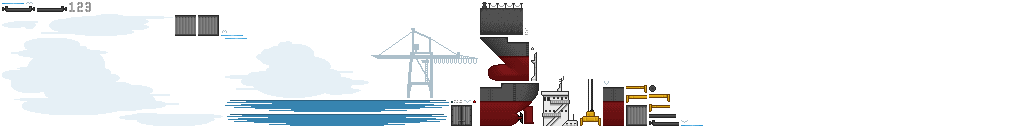
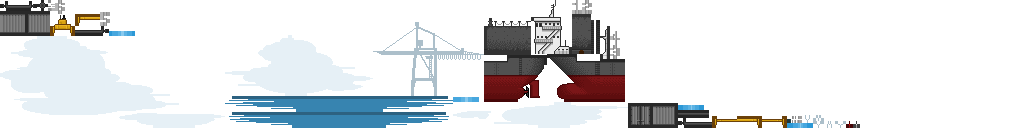
Neue Grafiken für Kran und Zughintergrund eingearbeitet.

diff --git a/Source/Docker/core/src/com/docker/domain/gameobject/Crane.java b/Source/Docker/core/src/com/docker/domain/gameobject/Crane.java
@@ -1,8 +1,5 @@
 package com.docker.domain.gameobject;
 
-import java.util.ArrayList;
-import java.util.List;
-
 import com.badlogic.gdx.Gdx;
 import com.badlogic.gdx.graphics.g2d.Batch;
 import com.badlogic.gdx.graphics.g2d.TextureAtlas;
@@ -23,7 +20,8 @@ public class Crane extends Actor {
 	private TextureRegion extensionLeftOuter;
 	private TextureRegion extensionRight;
 	private TextureRegion extensionRightOuter;
-
+	private TextureRegion cable;
+	
 	/**
 	 * @param speed the speed at which the crane can move.
 	 * @param xOrigin the crane's initial position on the x-plane. The Crane will always return to this position.
@@ -44,6 +42,7 @@ public class Crane extends Actor {
 		this.extensionLeftOuter = atlas.findRegion("crane_extension_left_outer");
 		this.extensionRight = atlas.findRegion("crane_extension_right");
 		this.extensionRightOuter = atlas.findRegion("crane_extension_right_outer");
+		this.cable = atlas.findRegion("crane_cable");
 	}
 	
 	/**
@@ -72,7 +71,10 @@ public class Crane extends Actor {
 		Action completeAction = new Action(){
 		    public boolean act( float delta ) {
 		        // give the container to the ship here, preferrably to a grid coordinate
-		    	ship.addContainer(x, removeContainer());
+		    	Container container = removeContainer();
+		    	ship.addContainer(x, container);
+		    	setX(getX()+container.getWidth()/2);
+		    	setY(getY()+container.getElementHeight());
 		    	return true;
 		    }
 		};
@@ -102,6 +104,8 @@ public class Crane extends Actor {
 
 	@Override
 	public void draw (Batch batch, float parentAlpha) {
+		float xBody;
+		float yBody;
 		if(this.container != null){
 			int length = this.container.getLength();
 			float elementWidth = this.container.getElementWidth();
@@ -157,12 +161,17 @@ public class Crane extends Actor {
 
 
 
-			batch.draw(this.body, 
-					this.getX()+((float)this.container.getWidth())/2-((float)this.body.getRegionWidth())/2, 
-					this.getY()+this.container.getHeight()-4);
+			xBody = this.getX()+((float)this.container.getWidth())/2-((float)this.body.getRegionWidth())/2;
+			yBody = this.getY()+this.container.getHeight()-4;
 		}
 		else{
-			batch.draw(this.body, this.getX(), this.getY());
+			xBody = this.getX();
+			yBody = this.getY();
+		}
+		batch.draw(this.body, xBody, yBody);
+		
+		for(float i=yBody + this.body.getRegionHeight();i<this.getStage().getHeight()+this.cable.getRegionHeight();i+=this.cable.getRegionHeight()){
+			batch.draw(this.cable, xBody+8, i);
 		}
 	}
 

diff --git a/Source/Docker/core/src/com/docker/domain/game/QuickGame.java b/Source/Docker/core/src/com/docker/domain/game/QuickGame.java
@@ -32,7 +32,7 @@ public class QuickGame extends AbstractGame {
 		super(application);
 		setTimeLeft(GAME_DURATION);
 		setShip(new Ship(10, 4, 5, 10f, 10f));
-		setTrain(new Train(5, 0f, 160f));
+		setTrain(new Train(5, 0f, HEIGHT-23));
 		setCrane(new Crane(80, WIDTH/2, HEIGHT));
 
 		this.viewport = new ExtendViewport(WIDTH, HEIGHT);
@@ -92,11 +92,12 @@ public class QuickGame extends AbstractGame {
 		this.stage.addActor(getShip());
 		this.stage.addActor(getTrain());
 		this.stage.addActor(getCrane());
-		getTrain().addContainer(new Container(3, 3, Color.YELLOW));
-		getTrain().addContainer(new Container(3, 2, Color.RED));
+		getTrain().addContainer(new Container(1, 3, Color.YELLOW));
+		getTrain().addContainer(new Container(2, 2, Color.RED));
 		getTrain().addContainer(new Container(3, 1, Color.ORANGE));
-		getTrain().addContainer(new Container(3, 4, Color.GREEN));
-		getTrain().addContainer(new Container(3, 5, Color.BLUE));
+		getTrain().addContainer(new Container(4, 4, Color.GREEN));
+		getTrain().addContainer(new Container(5, 5, Color.BLUE));
+		getTrain().addContainer(new Container(6, 5));
 
 	}
 

diff --git a/Source/Docker/core/src/com/docker/domain/gameobject/Background.java b/Source/Docker/core/src/com/docker/domain/gameobject/Background.java
@@ -22,6 +22,7 @@ public class Background extends Actor {
 	private Array<AtlasRegion> bird;
 	private Array<AtlasRegion> cloud;
 	private TextureRegion crane;
+	private TextureRegion tunnel;
 	private int cloudIndex;
 	private Vector2 cloudPosition;
 	private Animation birdAnimation;
@@ -42,6 +43,7 @@ public class Background extends Actor {
 		this.bird = atlas.findRegions("bg_bird");
 		this.cloud = atlas.findRegions("bg_cloud");
 		this.crane = atlas.findRegion("bg_crane");
+		this.tunnel = atlas.findRegion("bg_train_tunnel");
 
 		this.birdAnimation = new Animation(0.2f, this.bird);
 
@@ -109,6 +111,13 @@ public class Background extends Actor {
 					this.crane,
 					5+(this.crane.getRegionWidth()+20)*i,
 					this.getX()+this.harborLevel);
+		}
+		
+		for(float i=0;i<this.getWidth()+this.tunnel.getRegionWidth();i+=this.tunnel.getRegionWidth()){
+			batch.draw(
+					this.tunnel,
+					i,
+					this.getHeight()-this.tunnel.getRegionHeight());
 		}
 	}
 }
